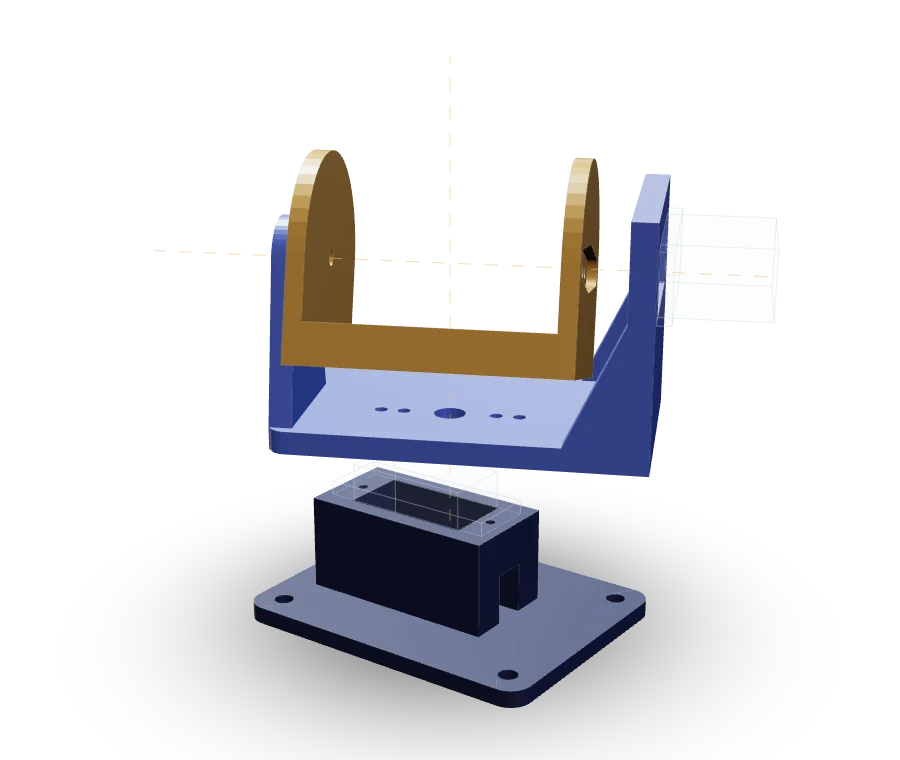
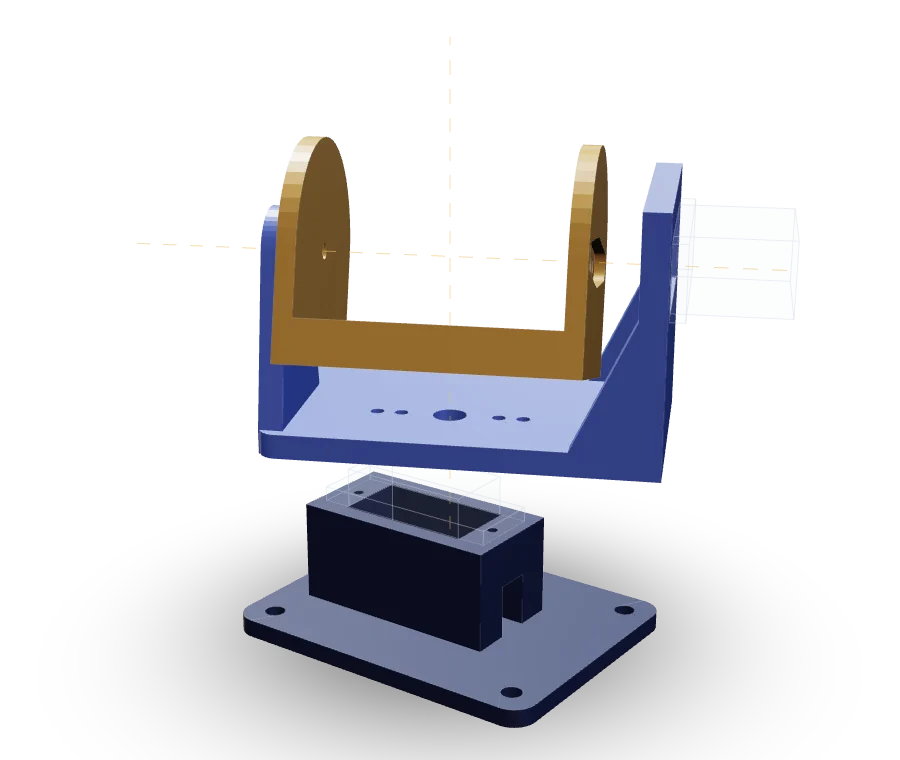
web: let scroll drive the hero fade directly after the first reveal
The canvas's 1.6s fade-in transition also smoothed every scroll-driven
opacity change, so the orb lagged over the mount panel on fast
scrolls. Also frame the mount a little closer and refresh its still.

Claude-Session: https://claude.ai/code/session_01Y7MAwUUTGrKmFAUaXkHR7z

Changed region(s): [[0.2489, 0.1816, 0.7778, 0.9684], [0.4044, 0.5145, 0.4667, 0.5447]]

diff --git a/web/src/mount.js b/web/src/mount.js
@@ -243,7 +243,7 @@ export async function createMount({ container, url, reduceMotion, finePointer, o
     renderer.setSize(w, h, false);
     camera.aspect = w / h;
     // Pull back on narrow stages so the whole swing stays in frame.
-    const dist = 5.6 / Math.min(1, camera.aspect / 1.05);
+    const dist = 5.3 / Math.min(1, camera.aspect / 1.05);
     const elev = 0.32;
     const azim = -0.62;
     camera.position.set(

diff --git a/web/src/main.js b/web/src/main.js
@@ -323,6 +323,7 @@ function loadScene() {
     .then(() => {
       container.classList.add('is-ready');
       if (!reduceMotion) root.classList.add('has-scene');
+      setTimeout(() => container.classList.add('is-settled'), 1700);
     })
     .catch((err) => {
       // Anything goes wrong: the static SVG hero simply stays.

diff --git a/web/src/styles.css b/web/src/styles.css
@@ -214,6 +214,10 @@ svg {
 .hero-visual.is-ready canvas {
   opacity: 1;
 }
+/* After the first fade-in, scroll drives the opacity directly (no lag). */
+.scene.is-settled canvas {
+  transition: none;
+}
 
 main,
 .site-footer {
